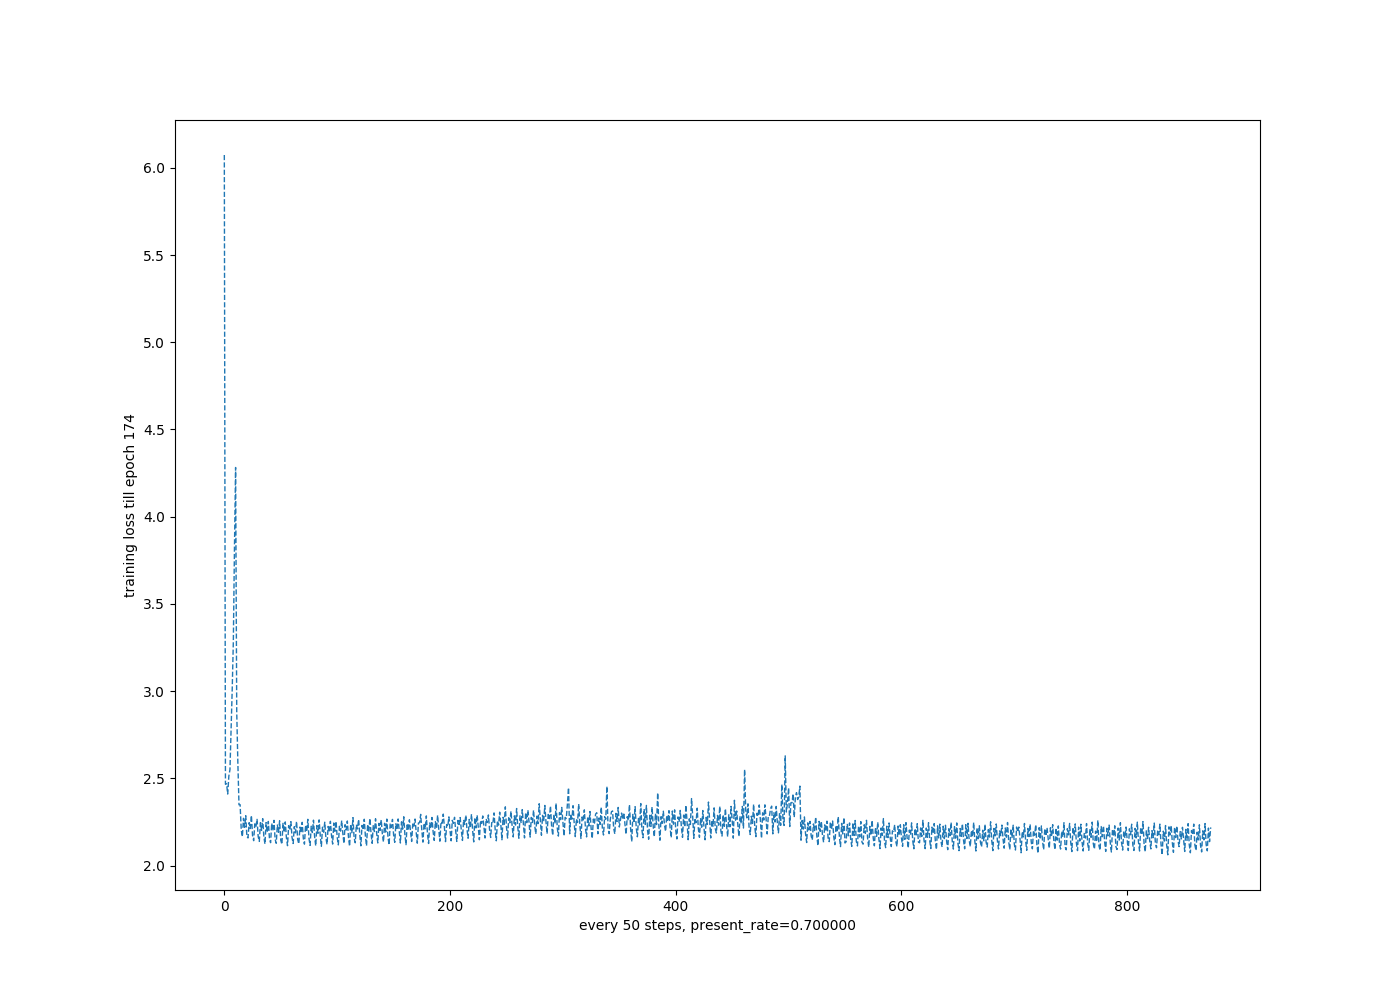
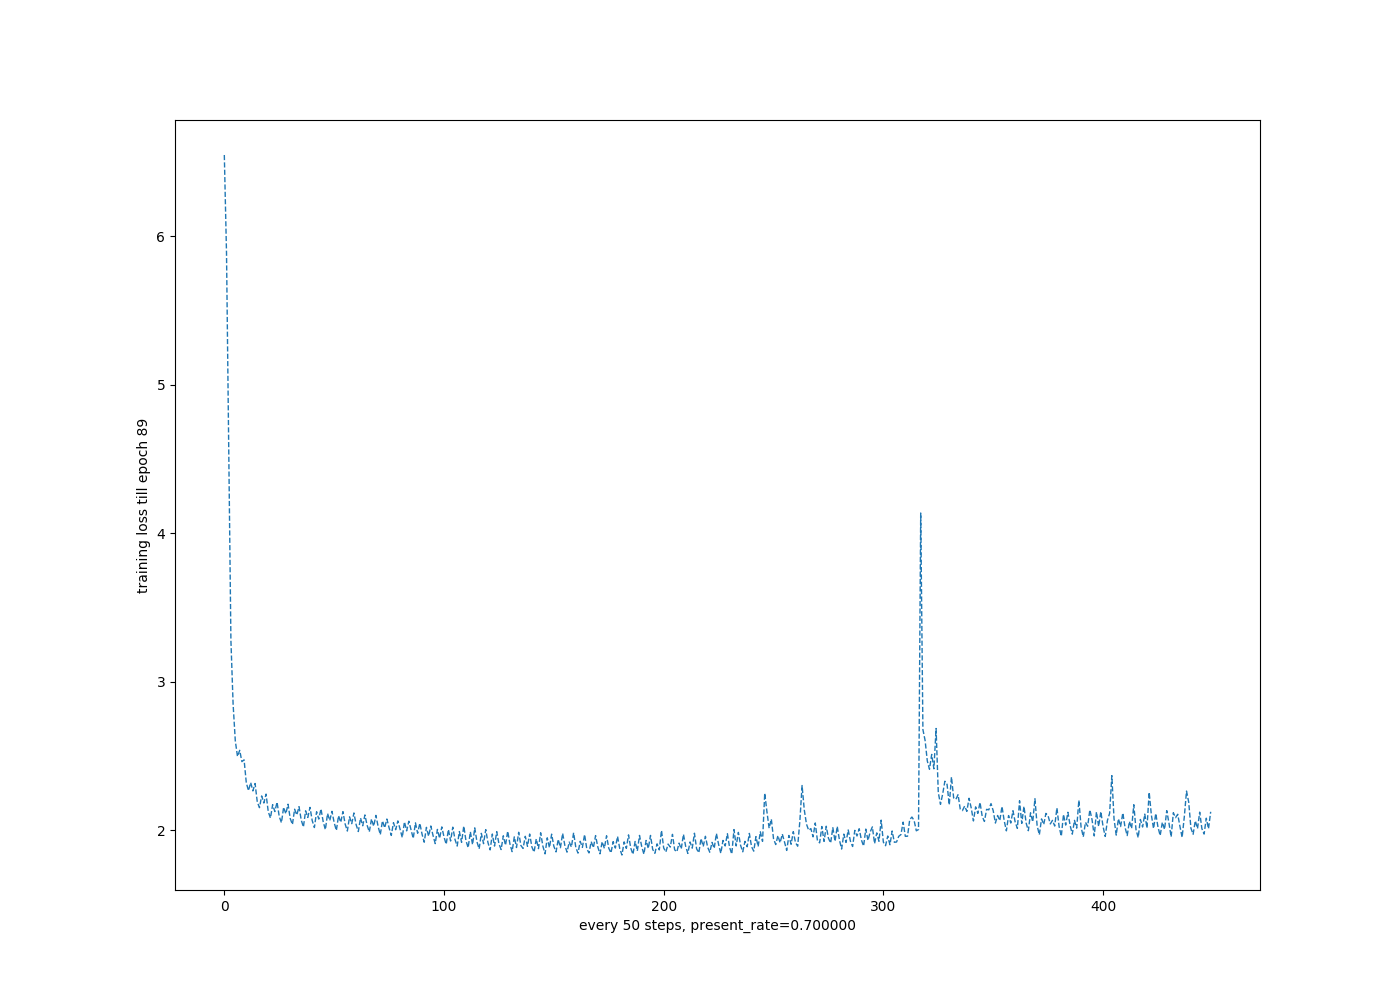
transformer with increasing lr

diff --git a/examples/long_text/long_text_gen.py b/examples/long_text/long_text_gen.py
@@ -95,7 +95,13 @@ def _main(_):
     cetp_loss = tf.reduce_mean(cetp_loss)
 
     global_step = tf.Variable(0, trainable=False)
-    learning_rate = tf.placeholder(dtype=tf.float32, shape=(), name='learning_rate')
+    # learning_rate = tf.placeholder(dtype=tf.float32, shape=(), name='learning_rate')
+    fstep = tf.to_float(global_step)
+    learning_rate = opt_hparams['lr_constant'] \
+                        * tf.minimum(1.0, (fstep / opt_hparams['warmup_steps'])) \
+                        * tf.rsqrt(tf.maximum(fstep, opt_hparams['warmup_steps'])) \
+                        * args.hidden_dim ** -0.5 \
+                        * args.present_rate
     optimizer = tf.train.AdamOptimizer(learning_rate=learning_rate,
                                        beta1=opt_hparams['Adam_beta1'],
                                        beta2=opt_hparams['Adam_beta2'],
@@ -129,12 +135,12 @@ def _main(_):
                     'template': template_pack,
                     'holes': answer_packs,
                     'step': global_step,
-                    'loss': cetp_loss
+           'lr':learning_rate,         'loss': cetp_loss
                 }
                 if mode is 'train':
                     fetches['train_op'] = train_op
                 feed = {
-                    learning_rate: opt_vars['learning_rate'],
+                    # learning_rate: opt_vars['learning_rate'],
                     tx.context.global_mode(): tf.estimator.ModeKeys.TRAIN if mode is 'train'
                                                 else tf.estimator.ModeKeys.EVAL
                 }
@@ -143,7 +149,7 @@ def _main(_):
                     rtns['template'], rtns['holes'], rtns['loss']
                 if step % 200 == 1 and mode is 'train':
                     rst = 'step:%s source:%s loss:%s lr:%f' % \
-                          (step, template_['text_ids'].shape, loss, opt_vars['learning_rate'])
+                          (step, template_['text_ids'].shape, loss, rtns['lr'])
                     print(rst)
                 loss_lists.append(loss)
                 cnt += 1
